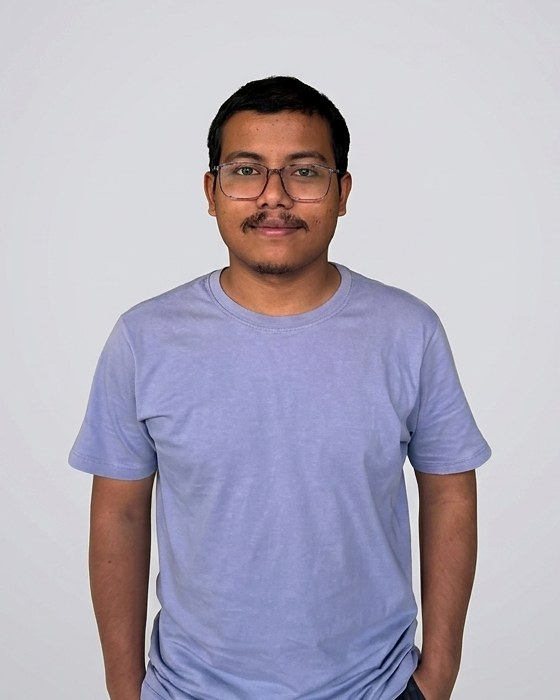
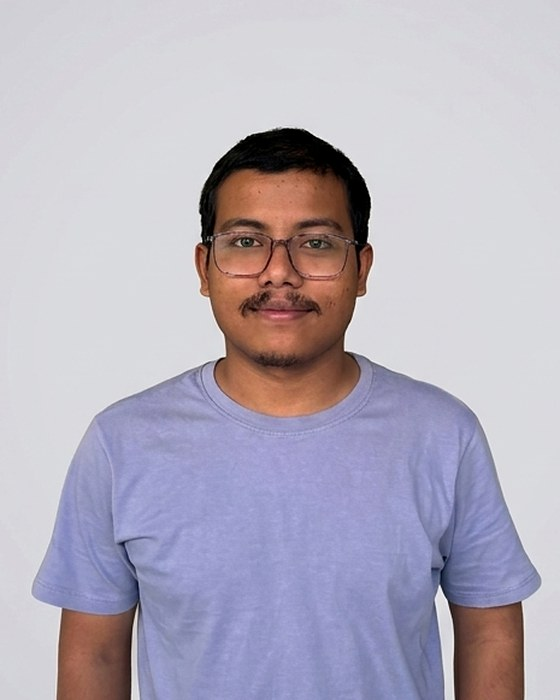
Bio portrait: match Home crop and box size

diff --git a/index.html b/index.html
@@ -65,7 +65,7 @@ h2.eyebrow { margin-top: 0; }
 .grid { display: grid; grid-template-columns: 280px minmax(0, 1fr); gap: 0 56px; align-items: start; }
 .photo { width: 100%; aspect-ratio: 4 / 5; max-width: 100%; border-radius: 10px; overflow: hidden; background: var(--chip); margin-bottom: 26px; display: flex; align-items: center; justify-content: center; }
 .photo img { width: 100%; height: 100%; object-fit: cover; display: block; }
-.bio-grid { display: grid; grid-template-columns: minmax(0, 720px) 240px; gap: 0 48px; align-items: start; }
+.bio-grid { display: grid; grid-template-columns: minmax(0, 1fr) 280px; gap: 0 56px; align-items: start; }
 .bio-grid .photo { margin-bottom: 0; }
 .photo .initials { font: 600 52px/1 var(--sans); color: var(--accent); letter-spacing: 0.02em; }
 

diff --git a/page.html b/page.html
@@ -60,7 +60,7 @@ h2.eyebrow { margin-top: 0; }
 .grid { display: grid; grid-template-columns: 280px minmax(0, 1fr); gap: 0 56px; align-items: start; }
 .photo { width: 100%; aspect-ratio: 4 / 5; max-width: 100%; border-radius: 10px; overflow: hidden; background: var(--chip); margin-bottom: 26px; display: flex; align-items: center; justify-content: center; }
 .photo img { width: 100%; height: 100%; object-fit: cover; display: block; }
-.bio-grid { display: grid; grid-template-columns: minmax(0, 720px) 240px; gap: 0 48px; align-items: start; }
+.bio-grid { display: grid; grid-template-columns: minmax(0, 1fr) 280px; gap: 0 56px; align-items: start; }
 .bio-grid .photo { margin-bottom: 0; }
 .photo .initials { font: 600 52px/1 var(--sans); color: var(--accent); letter-spacing: 0.02em; }
 
